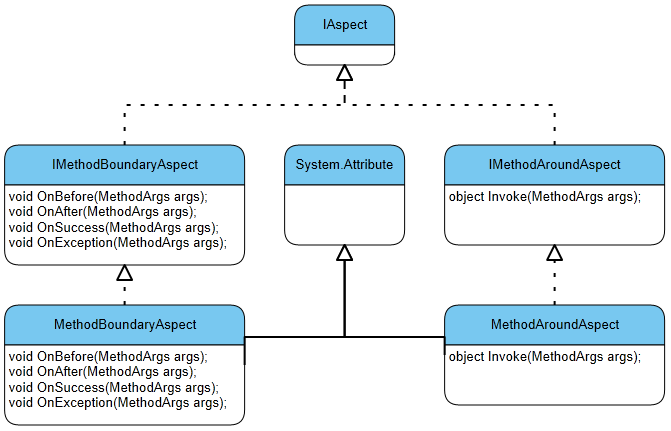
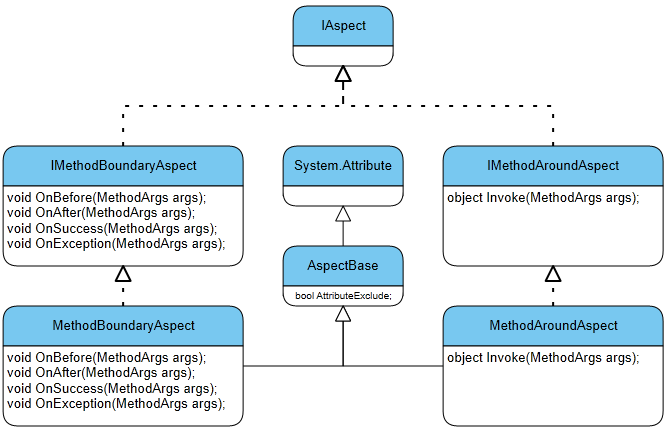
more on report

diff --git a/report/implementation.tex b/report/implementation.tex
@@ -6,9 +6,11 @@ Since an aspect is a .NET attribute, it can be used just like any other attribut
 
 An aspect can be applied in three level:
 
-1. Method level - an individual method.
-2. Class level - if applied to a class, all public methods including the public properties automatically get applied.
-3. Assembly level - if applied to an assembly, \#2 will apply but for all the public classes within the assembly.
+\begin{enumerate}
+  \item Method level - an individual method.
+  \item Class level - if applied to a class, all public methods including the public properties automatically get applied.
+  \item Assembly level - if applied to an assembly, \#2 will apply but for all the public classes within the assembly.
+\end{enumerate}
 
 An aspect can also be excluded on any given level. If excluded the target and any nested children will be skipped over. 
 
@@ -28,7 +30,7 @@ The take away from the above diagram, is that Buffalo first checks if an aspect 
 
 \section{Aspect Interface}
 
-Figure~\ref{uml01} depicts part of the system, where it shows how we can use it to find aspects during reflection.
+Figure~\ref{uml01} shows the relationship of various aspect types in Buffalo. This is used by Buffalo to identify aspects during reflection.
 
 \begin{figure}[H]
   \includegraphics[scale=1.0]{Uml01.PNG}
@@ -36,7 +38,7 @@ Figure~\ref{uml01} depicts part of the system, where it shows how we can use it 
   \caption{Aspect Inheritance\label{uml01}}
 \end{figure}
 
-All aspects ultimately implements the IAspect interface, therefore we can conclude that for all the types in an assembly, if it implements IAspect, then it must be an aspect itself.
+All aspects ultimately implements the IAspect interface, therefore we can conclude that for all the public types in an assembly, if it implements IAspect, then it must be an aspect itself.
 
 All aspects have a property named AttributeExclude, if set to true then the annotated target will not be included in the weaving.
 
@@ -46,13 +48,13 @@ Furthermore, by default, an aspect will be automatically excluded from applying 
 
 \section{MethodArgs}
 
-As mentioned above, when its all said and done, an aspect ultimately gets injected into an individual method. When developing an aspect, a developer can access various information about the target method, via the MethodArgs object passed in as parameter to the aspect. Currently the full method signature, the method name, return type and parameter list including parameter name, type and value are captured for each target method.
+As mentioned above, when its all said and done, an aspect ultimately gets injected into each \textit{individual} method. When developing an aspect, a developer can access various information about the target method, via the MethodArgs object passed in as parameter to the aspect. Currently the full method signature, the method name, return type and parameter list including parameter name, type and value are captured for each target method.
 
-The parameter list capturing is especially interesting, it enables developer to peek inside of the method that is executing at various point and inspect its parameter values. This will be useful in case of exception handling, where it will be useful to actually see what the values were at the time of the exception.
+The parameter list capturing is especially interesting, it enables developer to peek inside the method that is executing at various point and inspect its parameter values. This will be useful in case such as exception handling, where it will be useful to actually see what the values were at the time of the exception.
 
 \section{Visual Studio Solution Structure}
 
-Originally Buffalo was in one executable, that includes the various aspects and the program that initiate the weaving. It was later on separated into two assembly. One is the actual implementation as a DLL, another is just a command line executable that calls into the DLL to perform the weaving, as shown in figure~\ref{solutionexplorer}. This separation is necessary so developer can perform weaving from the command line or hook into MS-Build if necessary. To actually write the aspect, developer only need to reference the DLL which is much cleaner than referencing an executable.
+Originally Buffalo was implemented as one executable, that includes the various aspects and the program that initiate the weaving. It was later on separated into two assembly. One is a class library that contains the actual implementation. Another is a command line executable that calls into the class library to perform the weaving, as shown in figure~\ref{solutionexplorer}. This separation is necessary so developer can perform weaving from the command line or hook into MS-Build if necessary. To actually write the aspect, developer only need to reference the class library which is much cleaner than referencing an executable.
 
 \begin{figure}[H]
   \includegraphics[scale=1.0]{SolutionExplorer.PNG}
@@ -71,6 +73,8 @@ The overall implementation process can be illustrated as figure~\ref{implementat
   \centering
   \caption{Implementation Overview\label{implementation_overview}}
 \end{figure}
+
+Then it loops through each eligible method, and for each aspect associated with the eligible method do the MSIL injection.
 
 The actual injection phrase will be depending on the type of aspect, as we mentioned above currently Buffalo supports the MethodBoundaryAspect where various point of execution can be intercepted, and the MethodAroundAspect where a method can be completely replaced.
 
@@ -116,7 +120,7 @@ finally
 IL_001c: ret
 \end{lstlisting}
 
-This is the standard emission of the CLR when it encounters the try-catch-finally statement. In CLR there is a concept of the protected region, where each region is associated with a handler. A try-catch-finally is actually encapsulated in two such regions: a catch and a finally. From here we can easily figure out where to inject our various boundary aspects, as shown in the following figure~\ref{methodboundary02}
+Figure~\ref{methodboundaryB4} shows the standard emission of the CLR when it encounters the try-catch-finally statement. In CLR there is a concept of the protected region, where each region is associated with a handler. A try-catch-finally is actually encapsulated in two such regions: a catch and a finally. From here we can easily figure out where to inject our various boundary aspects, as shown in the following figure~\ref{methodboundary02}
 
 \begin{figure}[H]
   \includegraphics[scale=1.0]{MethodBoundaryOverview.PNG}
@@ -124,31 +128,44 @@ This is the standard emission of the CLR when it encounters the try-catch-finall
   \caption{MSIL Interception Points\label{methodboundary02}}
 \end{figure}
 
+The actual implementation is in Listing~\ref{../buffalo/Injectors/MethodBoundaryInjector.cs}
+
 \section{MethodAroundAspect Implementation Detail}
 
 The Around aspect on the other hand is a much more complicated compared to the Boundary aspect.
 
-MethodAroundAspect implements IMethodAroundAspect that has the following contract:
+MethodAroundAspect implements IMethodAroundAspect which has the following contract:
 
-void Invoke(MethodArgs arg)
+\begin{lstlisting}[caption={IMethodAroundAspect Contract}, label=aroundcontract]
+internal interface IMethodAroundAspect : IAspect
+{
+	void Invoke(MethodArgs arg)
+}
+\end{lstlisting}
 
-From a developer’s perspective, when writing an aspect, he can issue a Proceed() to signal a call back into the original method. The steps taken to implement Around in MSIL is roughly as follow:
+From a developer’s perspective, when writing an aspect, he can issue a Proceed() to signal a call back into the original method. The steps taken to implement MethodAroundAspect in MSIL is roughly as follow:
 
-1. Create a replacement for the annotated function.
-2. Create and store a variable pointing to the aspect.
-3. Copy all parameters from original method to the newly created replacement function.
-4. Create a variable to hold MethodArgs.
-5. Issue a call to Invoke() from the replacement function, passing in the MethodArgs variable.
-6. Handle the return value appropriately.
-   6a. If original method returns non void type, store the return value appropriately.
-   6b. If original method returns void, we need to discard the return value from Invoke()
-7. Handle Proceed() that might be issued from inside the Invoke()
-   7a. Load all the parameters onto the stack.
-   7b. Call back into the original method.
-   7c. Handle the return value appropriately.
-8. Modify all calls from original method to the replacement method.
+\begin{enumerate}
+	\item Create a replacement for the annotated function with exactly the same method signature.
+	\item Create and store a variable pointing to the aspect.
+	\item Copy all parameters from original method to the newly created replacement function.
+	\item Create a variable to hold MethodArgs.
+	\item Issue a call to Invoke() from the replacement function, passing in the MethodArgs variable.
+	\item Handle the return value appropriately.
+	\begin{enumerate}
+		\item If original method returns non void type, put the return value back on the stack.
+		\item If original method returns void, we need to discard the return value from Invoke().
+	\end{enumerate}
+	\item Handle Proceed() that might be issued from inside the Invoke().
+	\begin{enumerate}
+		\item Load all the parameters onto the stack.
+		\item Call back into the original method.
+		\item Handle the return value appropriately.
+	\end{enumerate}
+	\item Modify all calls from original method to the replacement method.
+\end{enumerate}
 
-As figure~\ref{around_overview} shown, the actual calling of either the original or replacement method is abstracted away. This is also a testament of the saying in Software Engineering that “Anything can be resolved by another layer of abstraction”.
+As figure~\ref{around_overview} shown, the actual calling of either the original or replacement method is abstracted away. This is also a testament of the saying in Software Engineering that "anything can be resolved by another layer of abstraction".
 
 \section{MethodArgs}
 
@@ -156,11 +173,11 @@ Another early decision was that from a given aspect, developer must be able to a
 
 Being able to capture some information about the annotated methods will be useful. For example, if we create a trace aspect to perform profiling, we can output all those information about the method at the time it was access. Being able to look at the parameter values in case of error will also be extremely useful in case of debugging.
 
-To achieve the above MethodArgs is used. This is the object passed into each aspect. During the weaving, an instance of MethodArgs is injected into each method, with all properties assembled dynamically to capture the information of the current method.
+To achieve the above MethodArgs is used. This is the object passed into each aspect. During the weaving, an instance of MethodArgs is injected into each method, with all properties assembled dynamically to capture the information of the current executing method.
 
-At first each OnBefore, OnSuccess, OnException and OnAfter has its own distinct MethodArgs object passed into them. Later on as an optimization only one instance is instantiated at the beginning of the method body and that instance is used in all the MethodBoundaryAspect.
+An early implementation instantiated a distinct instance of MethodArgs for each OnBefore, OnSuccess, OnException and OnAfter. Later on as an optimization only one instance is instantiated at the beginning of the method body and that instance is used in all the boundary aspects.
 
-An example of how to use MethodArgs is presented in Appendix B.
+An example of how to use MethodArgs is presented in the user manual.
 %
 %\begin{itemize}
 %\item{} Software details (use as many section as needed for class design, 

diff --git a/report/design.tex b/report/design.tex
@@ -1,8 +1,8 @@
 \chapter{Design}
 
-\section{Approaches on AOP Support}
+\section{Compiler Support}
 
-There are several broad approaches to implementing an AOP framework. I believe the ideal approach would be to extend the compiler of the target language to provide built-in support, making AOP the first class citizen. There are very few languages out there that take this approach, such as Delphi Prism~\cite{delphi_prism2010} and AspectJ~\cite{aspectj_faq, aspectj_text}. 
+There are several broad approaches to implementing an AOP framework. I believe the ideal approach would be to extend the compiler of the target language to provide built-in support, making AOP the first class citizen. However there are very few languages out there that take this approach, such as Delphi Prism~\cite{delphi_prism2010} and AspectJ~\cite{aspectj_faq, aspectj_text}. 
 
 Microsoft is in the "wait and see" mode regarding support of AOP development in the C\# compiler~\cite{hejlsberg}. Which means it is unlikely to happen anytime soon. Alternative compiler such as Mono C\#~\cite{monocsharp} is open source, so technically anyone can build AOP support into it. However that would have been a fairly big undertaking, and I was not sure if I can tackle and finish it in the time frame I wanted.
 
@@ -10,7 +10,7 @@ That leaves framework support as the other viable option. There are several impl
 
 \section{Run-time Interception}
 
-Early on I have narrowed them down to between Run-time Interception and Compile Time Weaving. As its name suggested, run-time interception operates while the program is in execution. It involves the use of the proxy pattern, where client communicate with the target object via a proxy, and aspects are injected to the proxy, thus enabling run-time behavior of the program to be modified. As figure~\ref{proxy_model} illustrates.
+Early on I have narrowed them down to between Run-time Interception and Compile Time Weaving. As its name suggested, run-time interception operates while the program is in execution. It involves the use of the proxy pattern, where client communicate with the target object via a proxy, and aspects are injected to the proxy, thus enabling run-time behavior of the program to be modified. Figure~\ref{proxy_model} illustrates this process.
 
 \begin{figure}[H]
   \includegraphics[scale=1.0]{Proxy.PNG}
@@ -18,9 +18,9 @@ Early on I have narrowed them down to between Run-time Interception and Compile 
   \caption{AOP Framework Using Proxy Pattern\label{proxy_model}}
 \end{figure}
 
-New functionality can be “added” to the target object via the proxy. The disadvantage of this approach is that it involves the generation of proxy object at run-time, which will impact the run-time performance of the application. It is also restricting in that both target object and the proxy must implement a common interface for this to work, and that only virtual methods are exposed.
+New functionality can be “added” to the target object via the proxy. The disadvantage of this approach is that it involves the generation of proxy object at run-time, which will impact the run-time performance of the application. It is also restricting in that both target object and the proxy must implement a common interface for this to work, and that only virtual methods are exposed for interception.
 
-From the developer's perspective, to use it the developer usually have to provide some type of mapping between the target object and the proxy via a configuration file so the actual proxy generation can occur. This approach although is easier to implement, but not as easy and friendly to use.
+From the end user's perspective, to use it the developer usually have to provide some type of mapping between the target object and the proxy via a configuration file so the actual proxy generation can occur. This approach although is easier to implement, but not as easy and friendly to use.
 
 \section{Compile Time Weaving}
 
@@ -36,18 +36,18 @@ Figure~\ref{buffalo_model} shows an overview of the compilation process and wher
 
 \section{What is a Buffalo Aspect}
 
-When performing post compilation weaving, Buffalo has to be able to discover what aspect is applied to what method in an assembly. In order to achieve that the target assembly has to carry some extra information, so that Buffalo can make use of the information to do its job.
+When performing post compilation weaving, Buffalo has to be able to discover what aspect is applied to what method in an assembly. In order to achieve that the target assembly has to carry some extra meta-data, so that Buffalo can use that to identify aspects.
 
 A given .NET assembly already carries a great deal of such meta-data for various purpose. .NET has the System.Attribute type that exists primarily for the purpose of inserting meta-data into the assembly during compilation. When we compile the source code, it is converted into Microsoft Intermediate Language (MSIL)~\cite{msil_text} and put inside a portable executable (PE) file, with the meta-data generated by the compiler. Buffalo takes advantage of this characteristic in two areas.
 
-Firstly, an aspect defined in Buffalo will be in the form of an attribute, by sub-classing System.Attribute. Since the aspect is a class type, it can contains any valid .NET code. But specifically an aspect needs to override various predefined method in order to do something useful. To see a detail relationship between various aspect type, please refer to figure~\ref{uml01}.
+First, an aspect defined in Buffalo will be in the form of an attribute, by sub-classing System.Attribute. Since the aspect is a class type, it can contains any valid .NET code. But specifically an aspect needs to override various predefined methods in order to do something useful. To see a detail relationship between various aspect types, please refer to figure~\ref{uml01}.
 
-Secondly, after compilation, the assembly will now contain the meta-data about the aspect. Buffalo can inspect the assembly for the information, and perform MSIL code injection as necessary.
+Second, after compilation, the assembly will now contain the meta-data about the aspect. Buffalo can inspect the assembly for the information, and perform MSIL code injection accordingly.
 
 In other word, a Buffalo aspect is a .NET attribute in disguise.
 
 \section{MethodBoundaryAspect}
-I also have to decide on what functionality I want to support in the framework. What type of aspects do I want to weave into the IL instructions of the executing program? For this I took inspiration from AspectJ and PostSharp, specifically I want to intercept the various point of an executing method. Those points are namely: before a method executes; after a method executes; whether or not the method executed successfully without error; or whether the method throws an exception any point during the execution.
+I also have to decide on what functionality I want to support in the framework. What type of aspects do I want to weave into the IL instructions of the executing program? For this I took inspiration from AspectJ~\cite{aspectj_faq} and PostSharp~\cite{postsharp}, specifically I want to intercept the various point of an executing method. Those points are namely: before a method executes; after a method executes; whether or not the method executed successfully without error; or whether the method throws an exception any point during the execution.
 
 If we think about it, these points can be cleanly mapped to the try-catch-finally statements of the .NET languages. As far as the run-time is concern~\cite{ecma334, ecma335}, try-catch can be used liberally without serious performance degradation. For example, we can transform the following method:
 
@@ -77,14 +77,14 @@ public void SomeFunction () {
 
 The above transformed method still does what the original method intends to do, only now at various point execution are being intercepted. I call these various point of interception the MethodBoundaryAspect.
 
-\section{Method Around Aspect}
+\section{MethodAroundAspect}
 Another type of aspect that Buffalo implemented is the MethodAroundAspect. Rather than intercepting various execution point, I can also completely replace a target method with some other method defined in an aspect. While preserving the option to call back into the original method if necessary.
 
 At first glance MethodAroundAspect sounds straightforward to do, but it turns out to be much more involved than the MethodBoundaryAspect.
 
-Since the option to call back into the original method is preserved, that means I can under no way modify the original method. If I simply yank out its method body instructions and replace them with my own, the call back to the original method will be meaningless since the method is now not the original method. The original method must be intact for the call back to happen.
+Since the option to call back into the original method is preserved, that means I should under no circumstance modify the original method. If I simply yank out its method body instructions and replace them with my own, the call back to the original method will be meaningless since the method is changed. The original method must be intact for the call back to happen.
 
-That leads me to dynamically generating a method in MSIL with the same method signature as the original.
+This leads me to dynamically generating a method in MSIL with the same method signature as the original.
 
 In this generated method I issued a call to the aspect’s Invoke() method, which is the actual aspect code I want to run. Inside the Invoke method, developer can make a call back to the original method via a call to the Proceed() method. Then throughout the program, for any calls made to the original method, I would change them to call the generated method instead. This is illustrated in figure~\ref{around_overview}
 
@@ -94,4 +94,4 @@ In this generated method I issued a call to the aspect’s Invoke() method, whic
   \caption{Method Around Aspect\label{around_overview}}
 \end{figure}
 
-The dotted line from Program to the Original method indicates that, once the Around aspect is applied to it, there is now no direct call to it anymore.
+The dotted line from Program to the Original method indicates that, once the Around aspect is applied to it, from the perspective of MSIL the program cannot directly access that method any more. Access to the original method has to come from inside the aspect. Also note that the original method is not changed at any given time.

diff --git a/report/conclusions.tex b/report/conclusions.tex
@@ -1,16 +1,16 @@
 \chapter{Conclusions}
 \section{Current Status}
 
-Currently Buffalo is at version 0.1. It contains two types of aspect: MethodBoundaryAspect, where various execution points can be intercepted. And MethodAroundAspect, where a method can be completely replaced while preserving the option to call back into the original method.
+Buffalo is currently at version 0.2. It contains two types of aspect: MethodBoundaryAspect, where various execution points can be intercepted. And MethodAroundAspect, where a method can be completely replaced while preserving the option to call back into the original method.
 
 \section{Future Work}
 
-There are couple areas where Buffalo can be improved upon. Currently there is no automatic setup program that install Buffalo onto user’s computer, and modify the various Microsoft.common.target file to hook into Microsoft Build System. To use Buffalo some manual steps needed in order to provide a more seamless experience.
+There are couple areas where Buffalo can be improved upon. Usability wise, currently there is no automatic setup program that install Buffalo onto user’s computer and integrate into MS-Build System. Some manual steps are needed in order to provide a more seamless experience.
 
-Another idea that I am interested in is to inject new features into the assembly. Similar to the Introduction feature of AspectJ.
+Functionality wise, another idea that I am interested in is to inject new features into the assembly. Similar to the Introduction feature of AspectJ. 
 
-Incremental compilation is another area I hope to get more familiar with, currently if an assembly is hooked up to the MS-Build system, the weaving happens for each post build. It would be more efficient if incremental weaving is used somehow.
+Incremental compilation is another area I hope to get more familiar with. When Buffalo does post compilation weaving it starts fresh each time. I am interested if incremental weaving can be used here and if so, how.
 
 \section{Lessons Learned}
 
-While working on Buffalo I learned a lot about designing API. I tried to follow the best practice on what to expose and what to hide from the user, making the API usage more simplified and consistent. I also have a better understanding of the overall Aspect Oriented Programming concepts and various implementations, and how I can make use of it to eliminate some of the cross-cutting concerns in my applications.
+While working on Buffalo I learned a lot about designing API in general. I tried to follow the best practice on what to expose and what to hide from the user, making the API usage more simplified and consistent. I also have a better understanding of the overall Aspect Oriented Programming concepts and various implementations, and how I can make use of it to eliminate some of the cross-cutting concerns in my applications.

diff --git a/report/intro.tex b/report/intro.tex
@@ -1,7 +1,5 @@
 \chapter{Introduction}
 
-%% Obviously you need to delete these lines when you have written up your text
-
 Object Oriented Programming (OOP) languages have given programmers a lot of freedom in expressing themselves in Object Oriented Design. However, they are still lacking in some areas when it comes to particular software design decision such as cross-cutting concern~\cite{aop}.
 
 In this project, we will try to solve this type of problem by designing and implementing a framework called ”Buffalo” for the .NET platform. Buffalo makes use of the .NET attribute system to weave aspect code to any targeted methods. In section 2 we will look at the design of the framework. In section 3 we will discuss how the implementation is carried out in more detail.
@@ -9,3 +7,5 @@ In this project, we will try to solve this type of problem by designing and impl
 We will show that by using Buffalo developers can separate those concerns from the core of the program for easy maintenance, and ultimately be more productive. We will show the result of the analysis in section 4.
 
 In section 5 we will conclude the report with the current project status. We will discuss what sort of future works are planned and what lessons I have learned from undergoing this project.
+
+Buffalo comprises of around 1,200 line of codes, which is fully included in Appendix A. User manual is included in Appendix B, which contains some example usages and how to integrate Buffalo with MS-Build.

diff --git a/report/abstract.tex b/report/abstract.tex
@@ -1,5 +1,5 @@
 \begin{abstractpage}
 Aspect Oriented Programming (AOP) is a paradigm that let programmer isolate and separate crosscutting concerns from their programs. The concept has not been widely adopted by modern languages; support in tooling such as Integrated Development Environment (IDE) is also rare. In this project I designed and implemented Buffalo, an AOP framework to provide this capability for the .NET platform.
 
-Buffalo is implemented with the Mono Cecil library. It performs MSIL instruction set modification according to the aspects written by developer. Buffalo is entirely attribute based, which mean developers with existing .NET skills will have a low learning curve to get started. Buffalo will help increase developer productivity in many area such as unhandled exception catching, tracing and logging, and many other areas.
+Buffalo performs MSIL instruction set modification according to the aspects written by developer, with the help of the Mono Cecil library. Buffalo is .NET attribute based, which mean developers with existing .NET skills will have little or no learning curve to get started. Buffalo will help increase developer productivity in many area such as unhandled exception catching, tracing and logging, and many other areas.
 \end{abstractpage}
